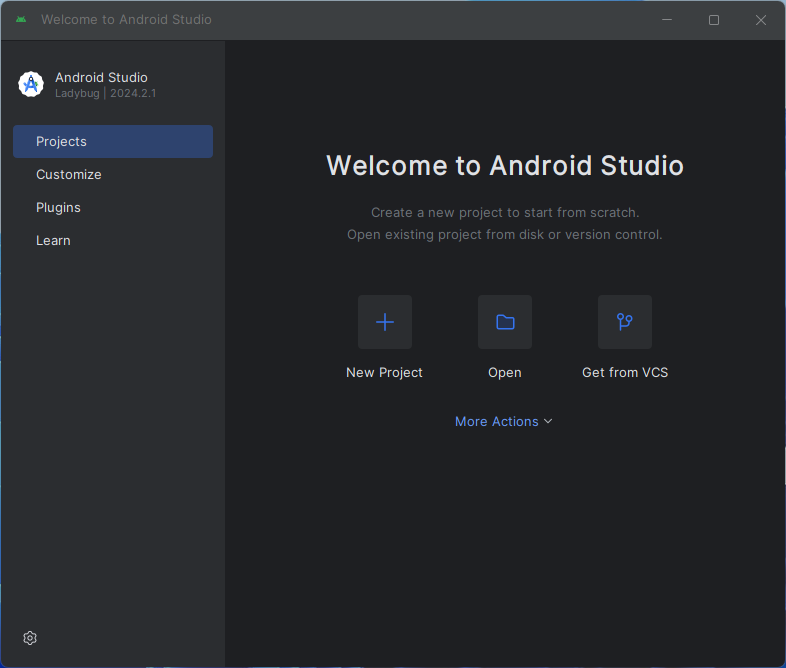
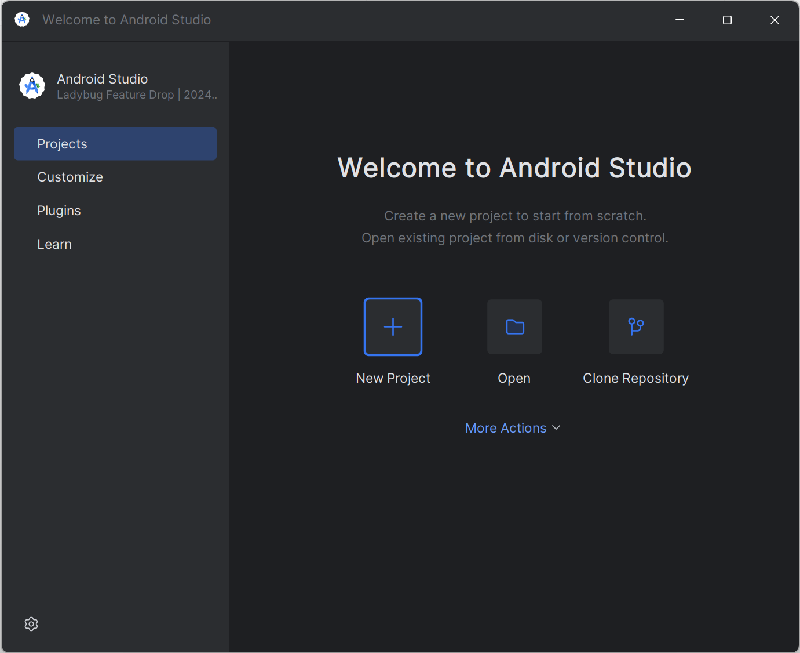
Clone repository
Was Get from VCS

diff --git a/docs/EN/SettingUpAaps/BuildingAaps.md b/docs/EN/SettingUpAaps/BuildingAaps.md
@@ -208,7 +208,7 @@ Android Studio will then use **Gradle** (a development tool for Android apps) to
 
 On the Android Studio Welcome screen, check that "**Projects**" (1) is highlighted on the left. 
 
-Then click "**Get from VCS**" (2) on the right:
+Then click "**Clone Repository**" (2) on the right:
 
 ![Get_from_VCS](../images/Building-the-App/032_GetVCS.png)
 
